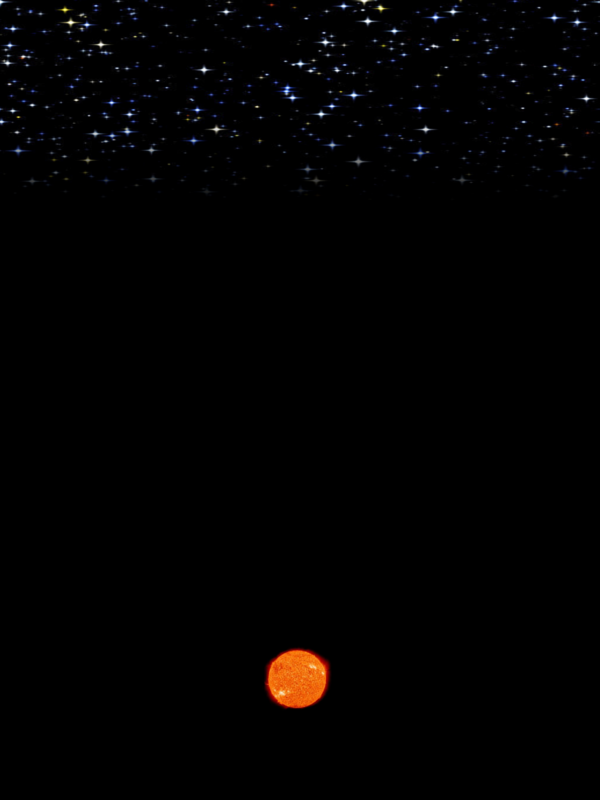
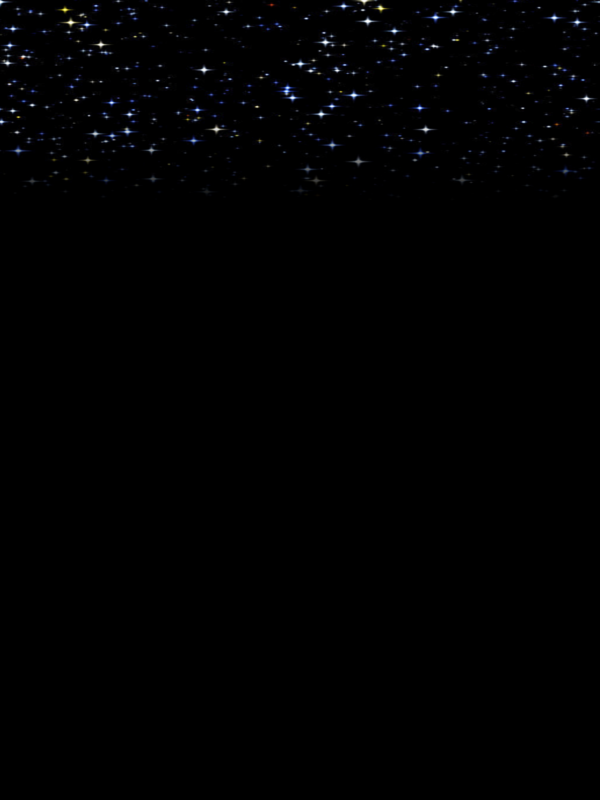
Add telescope view & final annotations.

Changed region(s): [[0.42, 0.8125, 0.57, 0.9062]]

diff --git a/index.html b/index.html
@@ -1,5 +1,4 @@
 <!DOCTYPE html>
-
 <!--
  Illustration of Astronomical Parallax inspired by the tutorial found at
  physics.weber.edu/schroeder/html5/.
@@ -30,7 +29,7 @@
 <html>
   <head>
     <meta charset="utf-8">
-    <meta name="viewport" content="width=400">
+    <meta name="viewport" content="width=300">
     <title>Astronomical Parallax Simulation</title>
     <style>
       input[type="range"] {
@@ -51,39 +50,56 @@
   </head>
   <body style="font-family:sans-serif; 
 	       font-size:15px; 
-	       width:400px; 
+	       width:610px; 
 	       margin-left:auto; 
 	       margin-right:auto; 
 	       background-color: #bababa;">
     <h1>Astronomical Parallax</h1>
+      
     <p>This simulation allows you to explore the parallax behaviour of a
       relatively nearby object seen against a far-field background.</p>
     
-    <div style="width:300px; margin-left:auto; margin-right:auto;">
+    <div style="width:300px; float: left; ">
       <img src="parallax_bg.png" width="300" height="400"
 	   style="position:absolute;">
       <canvas id="mainCanvas" width="300" height="400"
 	      style="position:relative; z-index: 1;" >
 	Canvas not supported; please update your browser.
       </canvas>
-    </div>
-
-    <div style="text-align:center;">
-      &nbsp;&nbsp;&nbsp;
+    </div>    
+    
+    <div style="width:300px;  float: right;">
+      <img src="star_field.png" width="300" height="300"
+	   style="position:absolute;">
+      <canvas id="viewCanvas" width="300" height="300"
+	      style="position:relative; z-index: 1;" >
+      </canvas>
       Distance = <span id="distReadout" style="display:inline-block;
-			width:1.3em; text-align:right;">0.7</span> parsec
+		      width:1.3em; text-align:right;">1.5</span> parsec
       <input type="range" id="distSlider" min="0.5" max="2.0" step="0.1"
-	     value="0.7" style="width: 200px;" oninput="showDist();"
+	     value="1.5" style="width: 145px;" oninput="showDist();"
 	     onchange="showDist();">
-  </div>
+      
+      Inclination = <span id="incReadout" style="display:inline-block;
+		      width:2.0em; text-align:right;">7</span> deg
+      <input type="range" id="incSlider" min="0.0" max="60.0" step="1"
+	     value="7" style="width: 145px;" oninput="showInc();"
+	     onchange="showInc();">
+    </div>    
+    
+<!---------------------------------------------------------------------------->
     
     <script>
 
     // Canvas & widget elements
     var mainCanvas = document.getElementById("mainCanvas");
-    var ctx = mainCanvas.getContext("2d");
+    var ctx1 = mainCanvas.getContext("2d");
+    var viewCanvas = document.getElementById("viewCanvas");
+    var ctx2 = viewCanvas.getContext("2d");
     var distSlider = document.getElementById("distSlider");
     var distReadout = document.getElementById("distReadout");
+    var incSlider = document.getElementById("incSlider");
+    var incReadout = document.getElementById("incReadout");
 
     // Load the image of the Sun
     var sunImg = new Image();
@@ -96,20 +112,16 @@
     var theta_deg = 0             // Orbit starting angle
     var dTheta_deg = 1            // Orbit angle increment
     var inc_deg = 7               // Orbit inclination angle
-
-    // Variables for 600 x 800 background image
-    //var R = 100                   // Earth orbit radius
-    //var yOMin = 200, yOMax = 500  // Object position limits
-    //var yH = 100                  // Horizon line
-    //var xSun = 298, ySun = 680    // Sun position
-    //var annOff = 50               // Angle annotation offset
     
-    // Variables for 300 x 400 image
+    // Variables for 300px scaled image
     var R = 60                    // Earth orbit radius
-    var yOMin = 110, yOMax = 250  // Object position limits
-    var yH = 40                   // Horizon line
+    var yOMin = 70, yOMax = 230  // Object position limits
     var xSun = 150, ySun = 340    // Sun position
-    var annOff = 25               // Angle annotation offset
+    var annOff = 40               // Angle annotation offset
+    
+    // Start the animation
+    animate();
+
     
     function distToPix() {
 
@@ -120,6 +132,10 @@
       tmp = (d_pc - dMin_pc) * (yOMax - yOMin) / (dMax_pc - dMin_pc);
       yO = yOMax - tmp;
       d_pix = ySun - yO
+
+      // Set the inclination angle
+      inc_deg = Number(incSlider.value);
+    
     }
 
     function showDist() {
@@ -128,6 +144,11 @@
       distReadout.innerHTML = distSlider.value;
     }
     
+    function showInc() {
+
+      // Show the inclination angle value in the HTML
+      incReadout.innerHTML = incSlider.value;
+    }
     
     function drawAll() {
 
@@ -143,126 +164,137 @@
       var yO_tl = yO
 
       // Projected horizon position, relative to top-left
-      var yH_tl = yH
-      var xH_tl = xSun - xE * (yO - yH) / (yE_tl - yO)
+      var xH_tl = xSun - xE * yO / (yE_tl - yO)
 
       // Projected object motion
-      R1 = R * (yO - yH)/ d_pix
+      R1 = R * yO/ d_pix
       var theta_rad = theta_deg * Math.PI / 180
       var xP = R1 * Math.sin(-theta_rad)
-      var yP = - R1 * Math.cos(theta_rad) * Math.sin(inc_deg * Math.PI / 180)
+      var yP = - R1 * Math.cos(theta_rad) * Math.cos(inc_deg * Math.PI / 180)
+      var xP_tl = viewCanvas.width/2 + xP
+      var yP_tl = viewCanvas.height/2 + yP
     
-      // Clear the canvas for a new frame
-      ctx.clearRect(0, 0, mainCanvas.width, mainCanvas.height);    
+      // Clear both canvas for a new frame
+      ctx1.clearRect(0, 0, mainCanvas.width, mainCanvas.height);   
+      ctx2.clearRect(0, 0, viewCanvas.width, viewCanvas.height);    
 
-      // Draw the sun
-      ctx.fillStyle = "orange";
-      ctx.textAlign="center"; 
-      ctx.fillText("The Sun", xSun, ySun + sunImg.height/2)
-      ctx.textAlign="start"; 
+      // Draw the sun and far Earth orbit
+      ctx1.fillStyle = "orange";
+      ctx1.font = "14px Verdana";
+      ctx1.textAlign="center"; 
+      ctx1.fillText("The Sun", xSun, ySun + sunImg.height/2)
       drawFarEarthOrbit();
       drawSun();
     
-      // Draw connecting lines
-      ctx.beginPath();
-      ctx.moveTo(xE_tl, yE_tl);
-      //ctx.lineTo(xH_tl, yH_tl);
-      //ctx.lineTo(xSun+xP, yH+yP);
-      ctx.lineTo(xH_tl, yH+yP);
-      ctx.setLineDash([7, 3])
-      ctx.lineWidth=2;
-      ctx.strokeStyle = 'grey';
-      ctx.stroke();
+      // Draw the angle sweep line
+      ctx1.beginPath();
+      ctx1.moveTo(xE_tl, yE_tl);
+      ctx1.lineTo(xH_tl, 0);
+      ctx1.setLineDash([7, 3])
+      ctx1.lineWidth=2;
+      ctx1.strokeStyle = 'grey';
+      ctx1.stroke();
 
-      // Draw Earth
-      ctx.beginPath();
-      ctx.arc(xE_tl, yE_tl, 5, 0, 2*Math.PI);
-      var grad = ctx.createRadialGradient(xE_tl-1, yE_tl-2, 1,
-                                          xE_tl, yE_tl, 5);
+      // Draw the Earth
+      ctx1.beginPath();
+      ctx1.arc(xE_tl, yE_tl, 5, 0, 2*Math.PI);
+      var grad = ctx1.createRadialGradient(xE_tl-1, yE_tl-2, 1,
+                                            xE_tl, yE_tl, 5);
       grad.addColorStop(0, "#b3bdf8");
       grad.addColorStop(1, "blue");
-      ctx.fillStyle = grad;
-      ctx.fill();
+      ctx1.fillStyle = grad;
+      ctx1.fill();
 
-      // Draw object
+      // Draw the foreground object
       var xO_tl = xSun + xO
       var yO_tl = yO
-      ctx.beginPath();
-      ctx.arc(xO_tl, yO_tl, 5, 0, 2*Math.PI);
-      var grad1 = ctx.createRadialGradient(xO_tl-1, yO_tl-2, 1,
+      ctx1.beginPath();
+      ctx1.arc(xO_tl, yO_tl, 5, 0, 2*Math.PI);
+      var grad = ctx1.createRadialGradient(xO_tl-1, yO_tl-2, 1,
                                            xO_tl, yO_tl, 5);
-      grad1.addColorStop(0, "white");
-      grad1.addColorStop(1, "green");
-      ctx.fillStyle = grad1;
-    ctx.fill();
-
-      // Draw projected image
-      //ctx.beginPath();
-      //ctx.arc(xSun+xP, yH+yP, 5, 0, 2*Math.PI);
-      //ctx.fillStyle = "green";
-      //ctx.fill();
+      grad.addColorStop(0, "white");
+      grad.addColorStop(1, "green");
+      ctx1.fillStyle = grad;
+      ctx1.fill();
 
       // Draw the angle annotation
       var ang = Math.atan(R/d_pix)
-      ctx.beginPath();
-      ctx.arc(xO_tl, yO_tl, annOff, -ang-Math.PI/2, +ang-Math.PI/2);
-      ctx.setLineDash([7, 0])
-      ctx.strokeStyle = "yellow";
-      ctx.lineWidth=2;
-      ctx.stroke();
-      ctx.font = "16px Verdana";
-      ctx.fillStyle = "yellow";
       var parAngle_asec = 1/d_pc
+      ctx1.beginPath();
+      ctx1.arc(xO_tl, yO_tl, annOff, -ang-Math.PI/2, +ang-Math.PI/2);
+      ctx1.setLineDash([7, 0])
+      ctx1.strokeStyle = "yellow";
+      ctx1.lineWidth=2;
+      ctx1.stroke();
+      ctx1.fillStyle = "yellow";
+      ctx1.font = "14px Verdana";
+      ctx1.textAlign="start"; 
       var annTxt = "Angle = " + parAngle_asec.toFixed(2) + "''"
-      ctx.fillText(annTxt, xO_tl+annOff*Math.sin(ang)+ annOff*0.3,
-      yO_tl-annOff*Math.cos(ang)+8);
+      ctx1.fillText(annTxt, xO_tl+annOff*Math.sin(ang)+ annOff*0.3,
+                    yO_tl-annOff*Math.cos(ang)+8);
 
       // Draw projected orbit
-      ctx.beginPath();
-      ctx.setLineDash([7, 3])
-      ctx.strokeStyle = 'lightgreen';
-      ctx.lineWidth=2.0;
-      ctx.ellipse(xSun, yH, R1, R1 * Math.sin(inc_deg * Math.PI / 180), 0, Math.PI, 0)
-      ctx.stroke();
-      ctx.lineWidth=1.5;
-      ctx.ellipse(xSun, yH, R1, R1 * Math.sin(inc_deg * Math.PI / 180), 0, 0, Math.PI)
-      ctx.stroke();
+      ctx2.beginPath();
+      ctx2.setLineDash([7, 3])
+      ctx2.strokeStyle = 'lightgreen';
+      ctx2.lineWidth=1.5;
+      ctx2.ellipse(viewCanvas.width/2, viewCanvas.height/2, R1,
+                   R1 * Math.cos(inc_deg * Math.PI / 180), 0, 0, 2*Math.PI)
+      ctx2.stroke();
 
+      // Draw view of object
+      ctx2.beginPath();
+      ctx2.arc(xP_tl, yP_tl, 5, 0, 2*Math.PI);
+      var grad = ctx1.createRadialGradient(xP_tl-1, yP_tl-2, 1,
+                                           xP_tl, yP_tl, 5);
+      grad.addColorStop(0, "white");
+      grad.addColorStop(1, "green");
+      ctx2.fillStyle = grad;
+      ctx2.fill();
     
-      // Not to scale annotation
-      ctx.beginPath();
-      ctx.fillStyle = "white";
-      ctx.font = "12px Verdana";
-      ctx.fillText("Not to scale.", 8, mainCanvas.height - 8)
+      // Final annotations
+      ctx1.beginPath();
+      ctx1.fillStyle = "white";
+      ctx1.font = "14px Verdana";
+      ctx1.textAlign="start"; 
+      ctx1.fillText("Not to scale.", 8, mainCanvas.height - 8)
+      ctx1.fillText("Background stars.", 8, 12 + 8)
+      ctx2.beginPath();
+      ctx2.fillStyle = "white";
+      ctx2.font = "14px Verdana";
+      ctx2.textAlign="start"; 
+      ctx2.fillText("View from Earth through a telescope.", 8, 12 + 8)
     
     }
 
     function drawSun() {
-      ctx.drawImage(sunImg, xSun-sunImg.width/4, ySun-sunImg.height/4,
+      ctx1.drawImage(sunImg, xSun-sunImg.width/4, ySun-sunImg.height/4,
                     sunImg.width/2, sunImg.height/2);
     }
 
     function drawNearEarthOrbit() {
-      ctx.ellipse(xSun, ySun, R, R * Math.sin(inc_deg * Math.PI / 180.0), 0, 0, Math.PI)
-      ctx.setLineDash([7, 3])
-      ctx.lineWidth=2;
-      ctx.strokeStyle = 'grey';
-      ctx.stroke();
+      ctx1.ellipse(xSun, ySun, R, R * Math.sin(inc_deg * Math.PI / 180.0),
+                   0, 0, Math.PI)
+      ctx1.setLineDash([7, 3])
+      ctx1.lineWidth=2;
+      ctx1.strokeStyle = 'grey';
+      ctx1.stroke();
     }
 	       
     function drawFarEarthOrbit() {
-      ctx.ellipse(xSun, ySun, R, R * Math.sin(inc_deg * Math.PI / 180), 0, Math.PI, 0)
-      ctx.setLineDash([7, 3])
-      ctx.lineWidth=1.5;
-      ctx.strokeStyle = 'grey';
-      ctx.stroke();
+      ctx1.ellipse(xSun, ySun, R, R * Math.sin(inc_deg * Math.PI / 180),
+                   0, Math.PI, 0)
+      ctx1.setLineDash([7, 3])
+      ctx1.lineWidth=1.5;
+      ctx1.strokeStyle = 'grey';
+      ctx1.stroke();
 
       // Annotate the Earth
-      ctx.font = "12px Verdana";
-      ctx.fillStyle = '#6b72f8';
-      ctx.textAlign="end"; 
-      ctx.fillText("Earth", xSun-R-10, ySun+4)
-      ctx.textAlign="start"; 
+      ctx1.font = "12px Verdana";
+      ctx1.fillStyle = '#6b72f8';
+      ctx1.textAlign="end"; 
+      ctx1.fillText("Earth", xSun-R-10, ySun+4)
+      ctx1.textAlign="start"; 
     
     }
     
@@ -279,7 +311,7 @@
       drawAll();
 
       // Draw the Sun and orbit line in the forground during Earth eclipse
-      if (yE < 0) {
+      if (theta_deg > 256 || theta_deg < 90) {
         drawSun();
         drawNearEarthOrbit();
       } else {
@@ -289,16 +321,9 @@
       // Set the animation speed
       window.setTimeout(animate, 10);
 
-    }
-	       
-
-    distToPix();
-    animate();
+    }	       
     
   </script>
-    
-
-    
     
   </body>
 </html>
